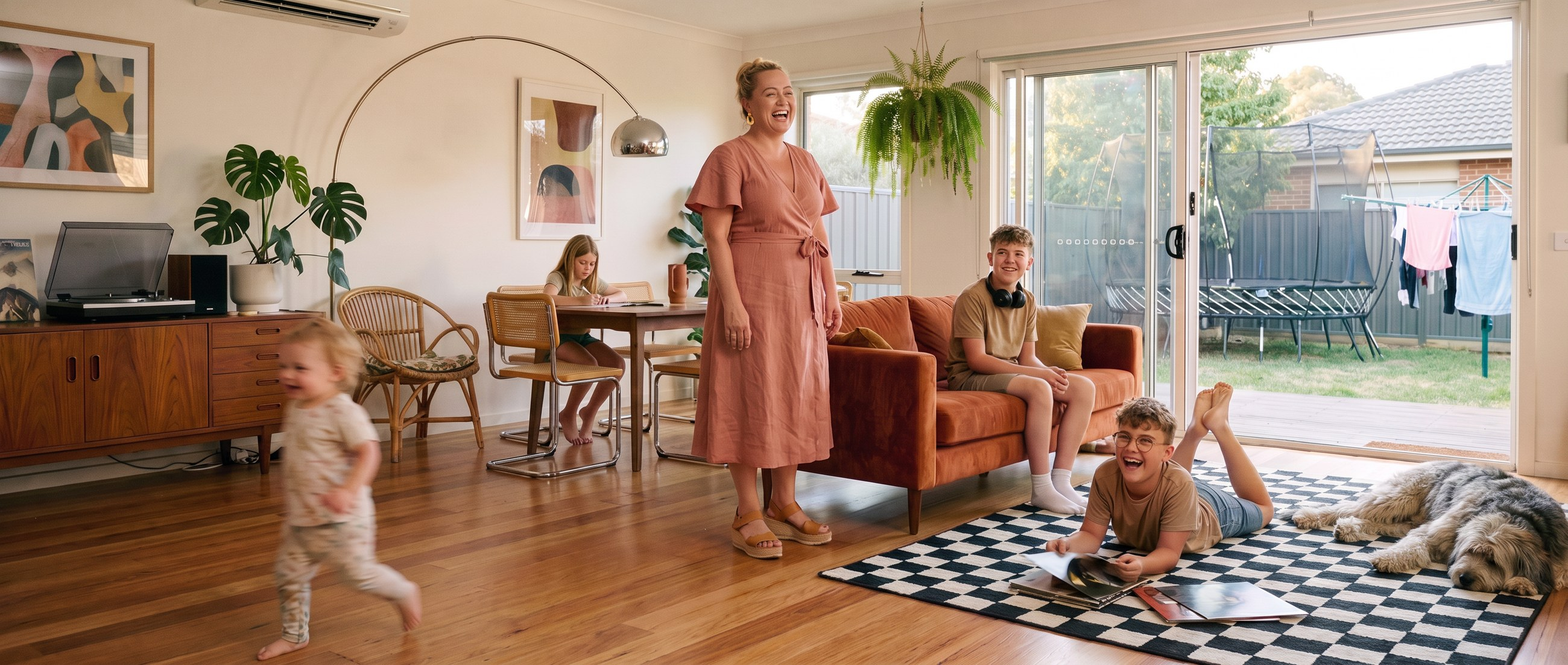
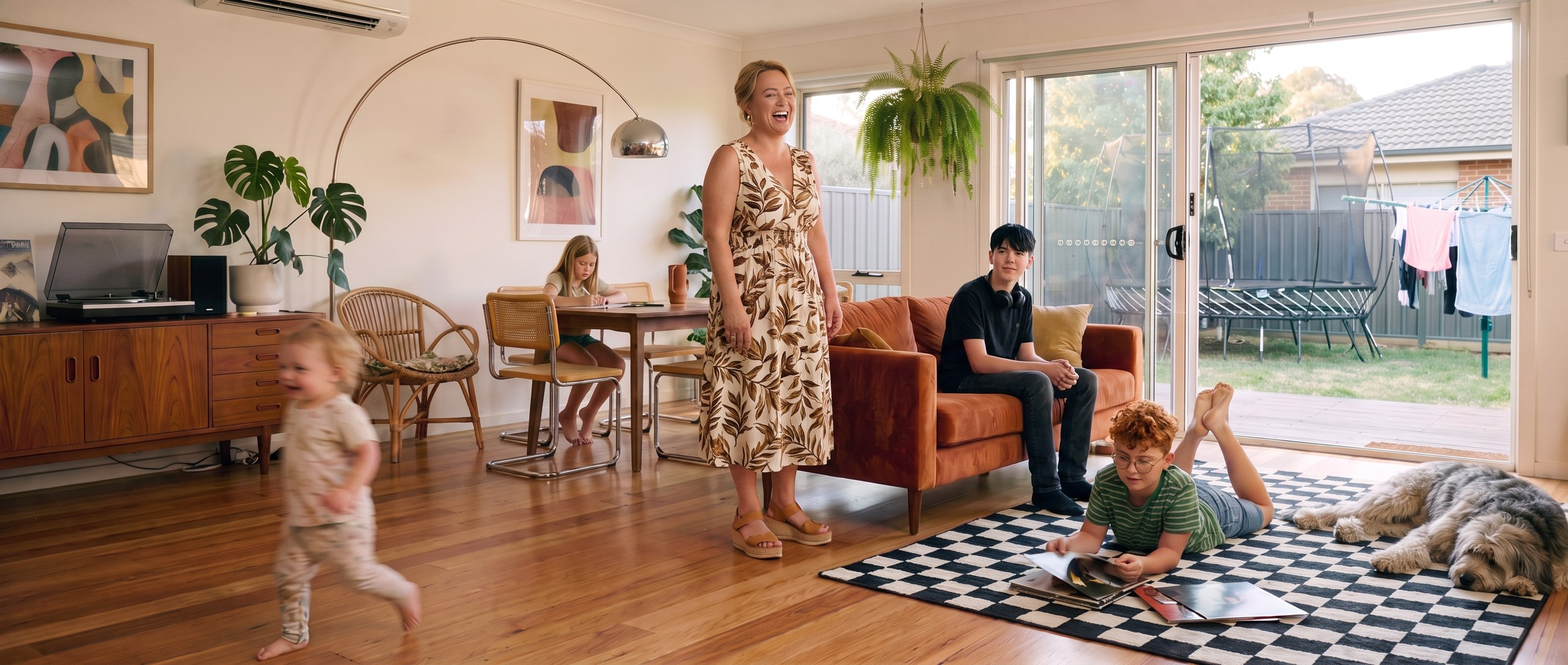
The boys stop being twins, the original dress is back, and the footer works
The two boys had merged again, so they are now built to contrast rather
than described apart: the teenager is fifteen, tall, straight near-black
hair, black tee, no glasses; the younger is nine, curly ginger, round
glasses, green stripes. No prompt can make two 'different' boys different
without naming the contrast.

The dress was my error. You asked for a different dress and I put her in
the same rose wrap in every image, having replaced the botanical print
you originally liked. The botanical is back in the hero, and she now
wears something different in each photograph: botanical at home, a sage
linen shirt dress in the doorway, silk for the office.

And the footer: the bloom was hanging fifty-five percent below the footer,
which is the grey smudge falling off the end of the page, and it had gone
olive because it inherits the accent that turned green. It is now pink,
sits inside the footer, and the dog moved onto the footer's own top line
where the photo band above can no longer clip it. The pose also sat behind
the contact content and only woke at 27 percent visible.

diff --git a/site/index.html b/site/index.html
@@ -252,7 +252,7 @@ section{position:relative}
 .faqs p{padding:0 3rem 1.5rem 0;max-width:60ch;color:var(--muted);font-size:1rem;line-height:1.6}
 
 /* Vik lands the pose as the contact section arrives. */
-.pose{position:absolute;right:var(--gut);bottom:0;z-index:0;margin:0;
+.pose{position:absolute;right:var(--gut);bottom:0;z-index:3;margin:0;
   width:clamp(10rem,20vw,17rem);pointer-events:none;
   transform-origin:50% 100%}
 .js .pose{opacity:0;transform:translateY(40px) rotate(-9deg) scale(.88)}
@@ -283,14 +283,15 @@ section{position:relative}
 
 .foot{position:relative;border-top:1px solid var(--rule);padding-block:clamp(3.5rem,6vw,5.5rem) 3.5rem;
   background:var(--plate);overflow:visible}
-.foot::before{content:"";position:absolute;left:-10%;right:-10%;bottom:-55%;height:34rem;z-index:0;
-  background:radial-gradient(closest-side,color-mix(in srgb,var(--accent) 30%,transparent),transparent 72%);
-  pointer-events:none;animation:foot-pulse 14s ease-in-out infinite alternate}
-@keyframes foot-pulse{from{transform:translate3d(-3%,3%,0) scale(1)}to{transform:translate3d(3%,-2%,0) scale(1.12)}}
+.foot{overflow:clip}
+.foot::before{content:"";position:absolute;left:-15%;right:-15%;top:-8rem;height:30rem;z-index:0;
+  background:radial-gradient(closest-side,color-mix(in srgb,var(--pink) 26%,transparent),transparent 70%);
+  pointer-events:none;animation:foot-pulse 16s ease-in-out infinite alternate}
+@keyframes foot-pulse{from{transform:translate3d(-4%,0,0) scale(1)}to{transform:translate3d(4%,2%,0) scale(1.14)}}
 .foot>*{position:relative;z-index:1}
 /* the dog sleeps on the footer line, breathing. The footer is allowed one joke. */
-.foot-dog{position:absolute;right:clamp(1.5rem,7vw,5rem);bottom:100%;z-index:1;
-  width:clamp(5.5rem,9vw,8.5rem);pointer-events:none;transform-origin:50% 100%;
+.foot-dog{position:absolute;right:clamp(1.5rem,7vw,5rem);top:0;z-index:2;
+  width:clamp(6rem,10vw,9.5rem);pointer-events:none;transform-origin:50% 0;
   animation:doze 5.5s ease-in-out infinite alternate}
 @keyframes doze{from{transform:scaleY(1)}to{transform:scaleY(1.035)}}
 @media (prefers-reduced-motion:reduce){.foot::before,.foot-dog{animation:none}}
@@ -721,7 +722,7 @@ section{position:relative}
         var t = 1 - Math.abs(p - .5) * 2;          // 0 at the ends, 1 mid-viewport
         el.style.setProperty('--p', p.toFixed(3));
         el.style.setProperty('--t', t.toFixed(3));
-        if (p > (el.classList.contains('pose') ? .27 : .04)) el.classList.add('in');
+        if (p > (el.classList.contains('pose') ? .12 : .04)) el.classList.add('in');
         if (el.classList.contains('scene-two')){
           var fr = el.getAttribute('data-frames') === '2'
             ? (t < .55 ? 1 : 4)
